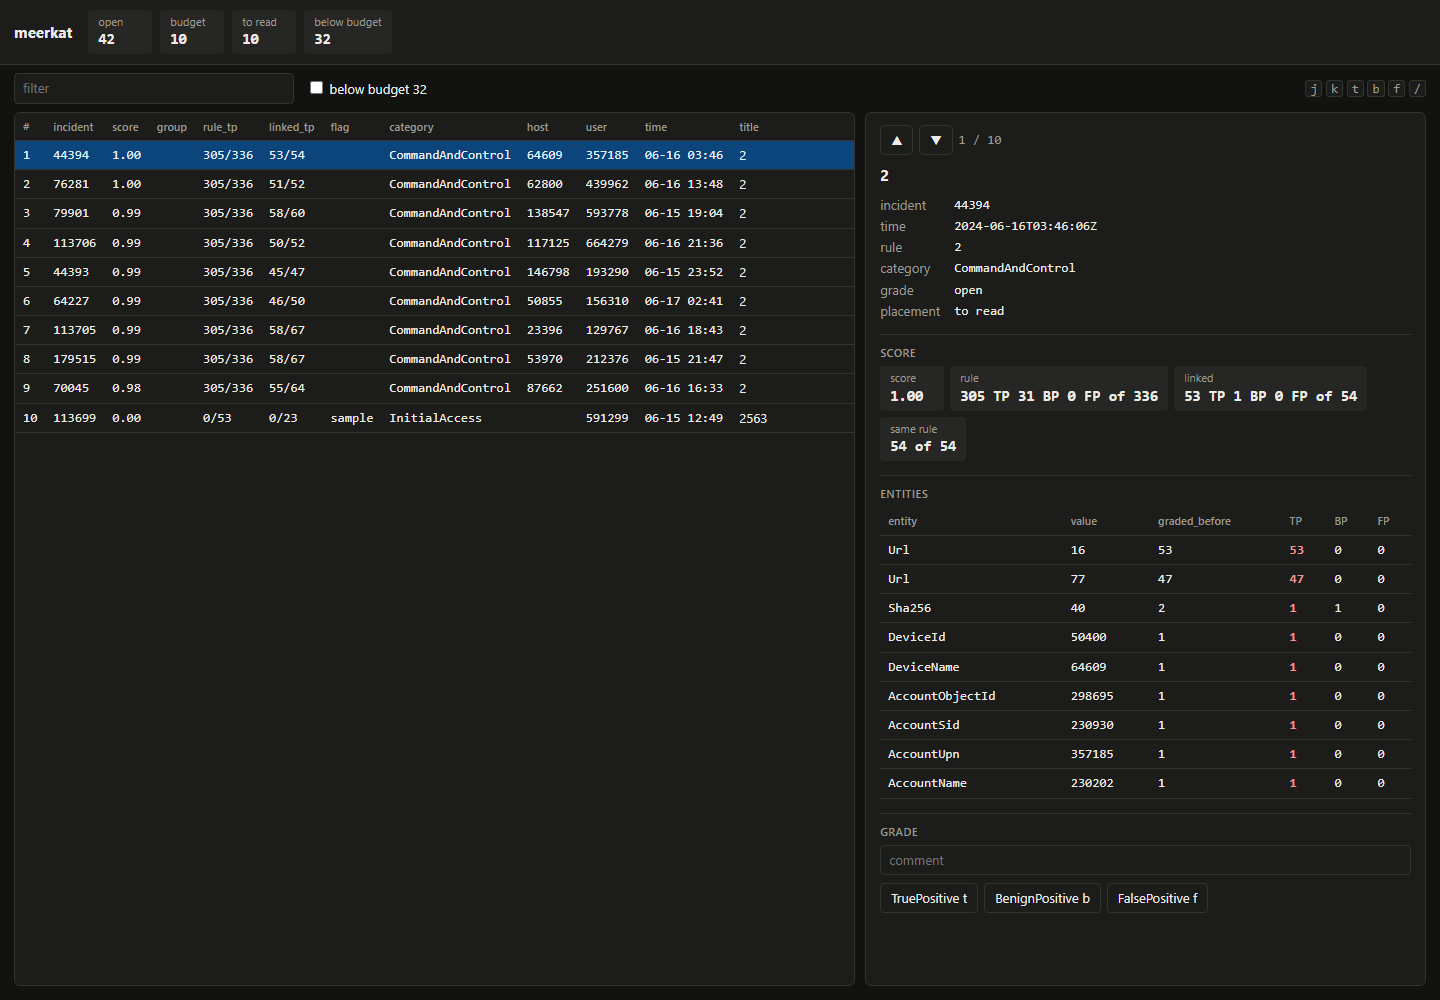
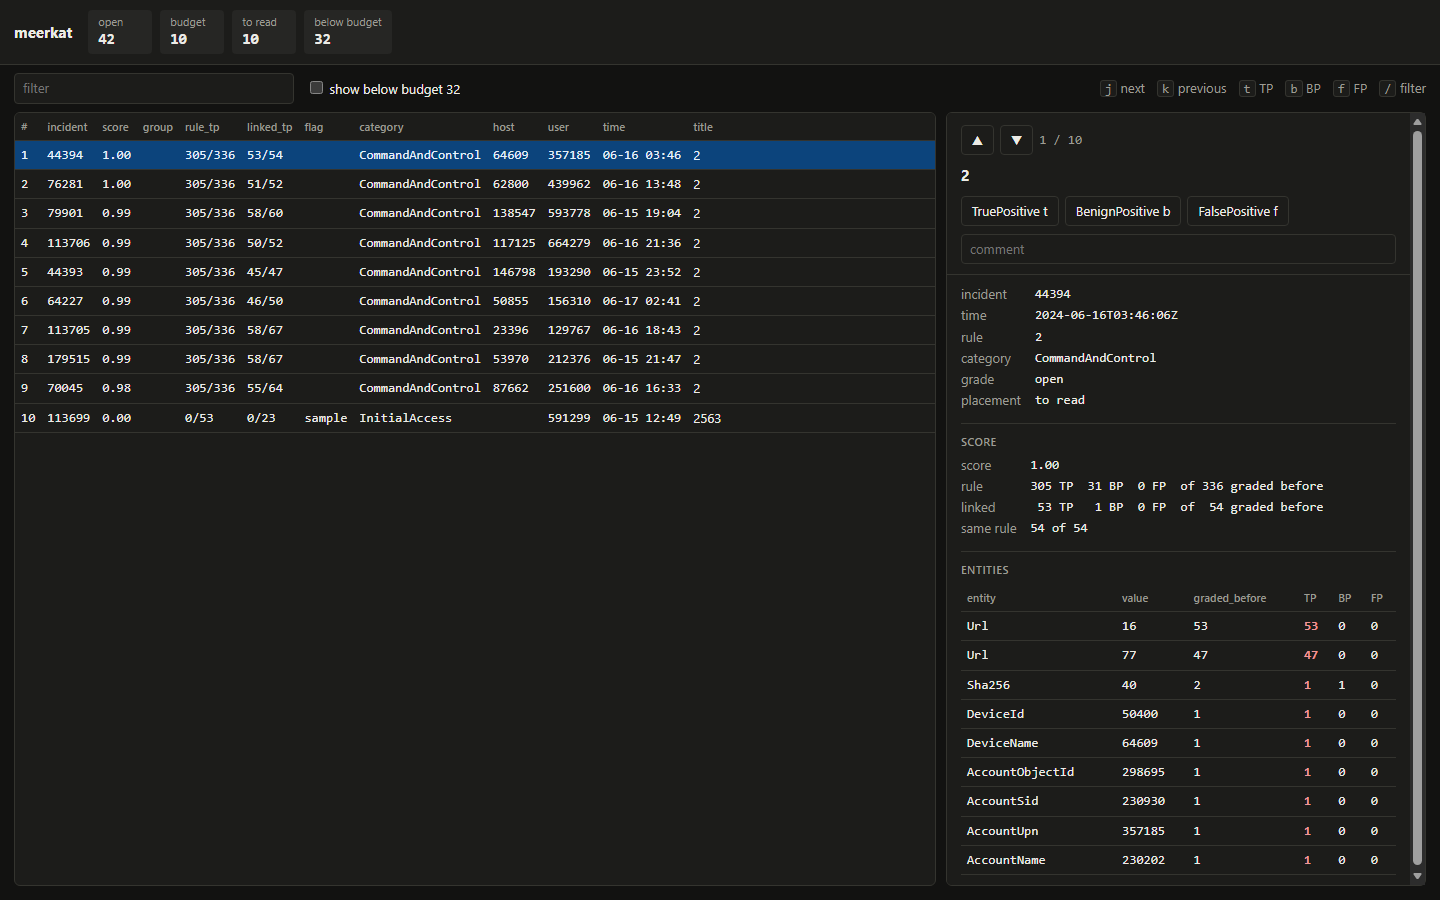
fix(serve): keep the grade buttons in view and fit narrow windows

diff --git a/meerkat/page.html b/meerkat/page.html
@@ -6,6 +6,7 @@
 <title>meerkat</title>
 <style nonce="__NONCE__">
 :root {
+  color-scheme: light dark;
   --bg: #f4f4f1; --panel: #ffffff; --text: #1c1c1a; --soft: #6b6a64; --line: #dedcd3;
   --pick: #e6f1fb; --pick-text: #0c447c; --bad: #a32d2d; --cell: #f1efe8;
 }
@@ -32,16 +33,18 @@ input { font: inherit; color: var(--text); background: var(--panel);
         border: 1px solid var(--line); border-radius: 4px; padding: 5px 8px; }
 #search { width: 280px; }
 #keys { margin-left: auto; color: var(--soft); }
+#keys span { margin-left: 12px; }
 kbd { border: 1px solid var(--line); border-radius: 3px; padding: 0 4px; background: var(--panel); }
 main { flex: 1; min-height: 0; display: grid; gap: 10px; padding: 0 14px 14px;
-       grid-template-columns: minmax(0, 3fr) minmax(360px, 2fr); }
-@media (max-width: 900px) { main { grid-template-columns: minmax(0, 1fr); } }
+       grid-template-columns: minmax(0, 1fr) clamp(440px, 34%, 520px); }
+@media (max-width: 1200px) { main { grid-template-columns: minmax(0, 1fr); } }
 .panel { background: var(--panel); border: 1px solid var(--line); border-radius: 6px;
          overflow: auto; min-height: 0; }
 table { width: 100%; border-collapse: collapse; }
 th { position: sticky; top: 0; background: var(--panel); text-align: left; font-weight: 500;
-     color: var(--soft); font-size: 11px; padding: 6px 8px; border-bottom: 1px solid var(--line); }
-td { padding: 5px 8px; border-bottom: 1px solid var(--line); white-space: nowrap; }
+     color: var(--soft); font-size: 11px; padding: 6px; border-bottom: 1px solid var(--line); }
+td { padding: 5px 6px; border-bottom: 1px solid var(--line); white-space: nowrap; }
+#detail td { white-space: normal; overflow-wrap: break-word; }
 td.title { font-family: system-ui, sans-serif; max-width: 0; width: 40%;
            overflow: hidden; text-overflow: ellipsis; }
 #rows tr[data-id], #linked tr, #members tr { cursor: pointer; }
@@ -54,17 +57,20 @@ td.title { font-family: system-ui, sans-serif; max-width: 0; width: 40%;
 #linked tr.other td.tp { color: var(--bad); }
 td.divider { font-size: 11px; color: var(--soft); background: var(--bg); }
 #detail { padding: 12px 14px; }
-#nav { display: flex; align-items: center; gap: 6px; margin: 0 0 10px; color: var(--soft); }
+#top { position: sticky; top: -12px; z-index: 1; background: var(--panel); margin: -12px -14px 0;
+       padding: 12px 14px 10px; border-bottom: 1px solid var(--line); }
+#top + dl { padding-top: 10px; }
+#nav { display: flex; flex-wrap: wrap; align-items: center; gap: 6px; margin: 0 0 10px; color: var(--soft); }
 #detail h2 { font-size: 15px; margin: 0 0 10px; overflow-wrap: anywhere; }
 #detail h3 { font-size: 11px; font-weight: 500; color: var(--soft); text-transform: uppercase;
              letter-spacing: .04em; margin: 14px 0 6px; padding-top: 10px;
              border-top: 1px solid var(--line); }
 dl { display: grid; grid-template-columns: max-content 1fr; gap: 3px 14px; margin: 0; }
 dt { color: var(--soft); }
-dd { margin: 0; font-family: ui-monospace, monospace; overflow-wrap: anywhere; }
-.stats { display: flex; flex-wrap: wrap; gap: 6px; }
+dd { margin: 0; font-family: ui-monospace, monospace; overflow-wrap: anywhere;
+     white-space: pre-wrap; }
 .tp { color: var(--bad); font-weight: 600; }
-#grade { display: flex; flex-wrap: wrap; gap: 6px; margin-top: 8px; }
+#grade { display: flex; flex-wrap: wrap; align-items: center; gap: 6px; margin-bottom: 8px; }
 #comment { width: 100%; }
 button { font: inherit; color: var(--text); background: var(--panel); cursor: pointer;
          border: 1px solid var(--line); border-radius: 4px; padding: 5px 10px; }
@@ -76,7 +82,7 @@ button:hover { background: var(--cell); }
 <header><h1>meerkat</h1></header>
 <div id="bar">
   <input id="search" type="search" aria-label="filter" placeholder="filter">
-  <label><input id="all" type="checkbox"> <span id="all-label">below</span></label>
+  <label><input id="all" type="checkbox"> <span id="all-label">show below budget</span></label>
   <span id="notice" aria-live="polite"></span>
   <span id="keys"></span>
 </div>
@@ -110,8 +116,13 @@ function el(tag, text, className) {
   return node;
 }
 
-function gradedBefore(tp, bp, total) {
-  return `${tp} TP  ${bp} BP  ${total - tp - bp} FP  of ${total}`;
+function gradedBefore(...counts) {
+  const cells = counts.map(([tp, bp, total]) => [tp, bp, total - tp - bp, total].map(String));
+  const wide = [0, 1, 2, 3].map(at => Math.max(...cells.map(cell => cell[at].length)));
+  return cells.map(cell => {
+    const [tp, bp, fp, total] = cell.map((text, at) => text.padStart(wide[at]));
+    return `${tp} TP  ${bp} BP  ${fp} FP  of ${total} graded before`;
+  });
 }
 
 function stat(label, value) {
@@ -158,10 +169,13 @@ async function load(keep) {
     stats.push(stat("to read", record.to_read), stat("below budget", record.below_budget));
   }
   header.replaceChildren(el("h1", "meerkat"), ...stats);
-  document.getElementById("all-label").textContent = `below budget ${record.below_budget}`;
+  document.getElementById("all-label").textContent = `show below budget ${record.below_budget}`;
   const keys = document.getElementById("keys");
   keys.replaceChildren();
-  for (const key of ["j", "k", ...Object.keys(state.keys), "/"]) keys.append(el("kbd", key), " ");
+  const hints = [["j", "next"], ["k", "previous"],
+                 ...Object.entries(state.keys).map(([key, grade]) => [key, grade.replace(/[a-z]/g, "")]),
+                 ["/", "filter"]];
+  for (const [key, label] of hints) keys.append(el("span", undefined), el("kbd", key), ` ${label}`);
   draw(keep);
 }
 
@@ -238,21 +252,41 @@ async function show(id) {
     nav.append(back);
   }
 
-  const parts = [nav, el("h2", row.AlertTitle || row.IncidentId), fields([
+  const comment = el("input");
+  comment.id = "comment";
+  comment.type = "text";
+  comment.setAttribute("aria-label", "comment");
+  comment.placeholder = "comment";
+  const buttons = el("div");
+  buttons.id = "grade";
+  for (const [key, grade] of Object.entries(state.keys)) {
+    const button = el("button", state.open ? `${grade} ${key}` : grade);
+    button.addEventListener("click", () => gradeIt(grade));
+    buttons.append(button);
+  }
+  if (state.open && row.members.length) {
+    const whole = el("input"), label = el("label");
+    whole.id = "whole";
+    whole.type = "checkbox";
+    label.append(whole, ` group ${row.members.length + 1}`);
+    buttons.append(label);
+  }
+  const top = el("div");
+  top.id = "top";
+  top.append(nav, el("h2", row.AlertTitle || row.IncidentId), buttons, comment);
+
+  const [rule, linked] = gradedBefore(
+    [row.rule_true_positives, row.rule_benign_positives, row.rule_graded],
+    [row.linked_true_positive, row.linked_benign_positive, row.linked]);
+  const parts = [top, fields([
     ["incident", row.IncidentId], ["time", row.Timestamp], ["rule", row.DetectorId],
     ["category", row.Category], ["severity", row.Severity],
     ["techniques", row.MitreTechniques.join(", ")],
     ["grade", row.IncidentGrade || "open"], ["placement", row.placement],
+  ]), el("h3", "score"), fields([
+    ["score", row.score.toFixed(2)], ["rule", rule], ["linked", linked],
+    ["same rule", row.linked ? `${row.linked_same_rule} of ${row.linked}` : ""],
   ])];
-
-  const scores = el("div", undefined, "stats");
-  scores.append(stat("score", row.score.toFixed(2)),
-                stat("rule", gradedBefore(row.rule_true_positives, row.rule_benign_positives,
-                                          row.rule_graded)),
-                stat("linked", gradedBefore(row.linked_true_positive, row.linked_benign_positive,
-                                            row.linked)));
-  if (row.linked) scores.append(stat("same rule", `${row.linked_same_rule} of ${row.linked}`));
-  parts.push(el("h3", "score"), scores);
 
   if (row.entities.length) {
     const short = state.record.grades.map(grade => grade.replace(/[a-z]/g, ""));
@@ -310,28 +344,6 @@ async function show(id) {
     parts.push(el("h3", "history"), table);
   }
 
-  parts.push(el("h3", "grade"));
-  const comment = el("input");
-  comment.id = "comment";
-  comment.type = "text";
-  comment.setAttribute("aria-label", "comment");
-  comment.placeholder = "comment";
-  const buttons = el("div");
-  buttons.id = "grade";
-  for (const [key, grade] of Object.entries(state.keys)) {
-    const button = el("button", state.open ? `${grade} ${key}` : grade);
-    button.addEventListener("click", () => gradeIt(grade));
-    buttons.append(button);
-  }
-  parts.push(comment);
-  if (state.open && row.members.length) {
-    const whole = el("input"), label = el("label");
-    whole.id = "whole";
-    whole.type = "checkbox";
-    label.append(whole, ` group ${row.members.length + 1}`);
-    parts.push(label);
-  }
-  parts.push(buttons);
   pane.replaceChildren(...parts);
   pane.scrollTop = 0;
 }
